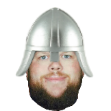
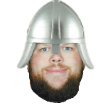
Spooner animation

diff --git a/Player.py b/Player.py
@@ -6,6 +6,10 @@ class Player(pygame.sprite.Sprite):
         size = [61,61]
         self.maxSpeed = maxSpeed     
         self.images = [pygame.transform.scale(pygame.image.load("rsc/ball/Spoonerk.png"), size),
+                       pygame.transform.scale(pygame.image.load("rsc/ball/Spoonerk(1).png"), size),
+                       pygame.transform.scale(pygame.image.load("rsc/ball/Spoonerk(2).png"), size),
+                       pygame.transform.scale(pygame.image.load("rsc/ball/Spoonerk(3).png"), size),
+                       pygame.transform.scale(pygame.image.load("rsc/ball/Spoonerk(4).png"), size),
                        #pygame.transform.scale(pygame.image.load("rsc/ball/SpoonerF(2).png"), size),
                        #pygame.transform.scale(pygame.image.load("rsc/ball/SpoonerF(3.1).png"), size),
                        #pygame.transform.scale(pygame.image.load("rsc/ball/SpoonerF(4).png"), size),
